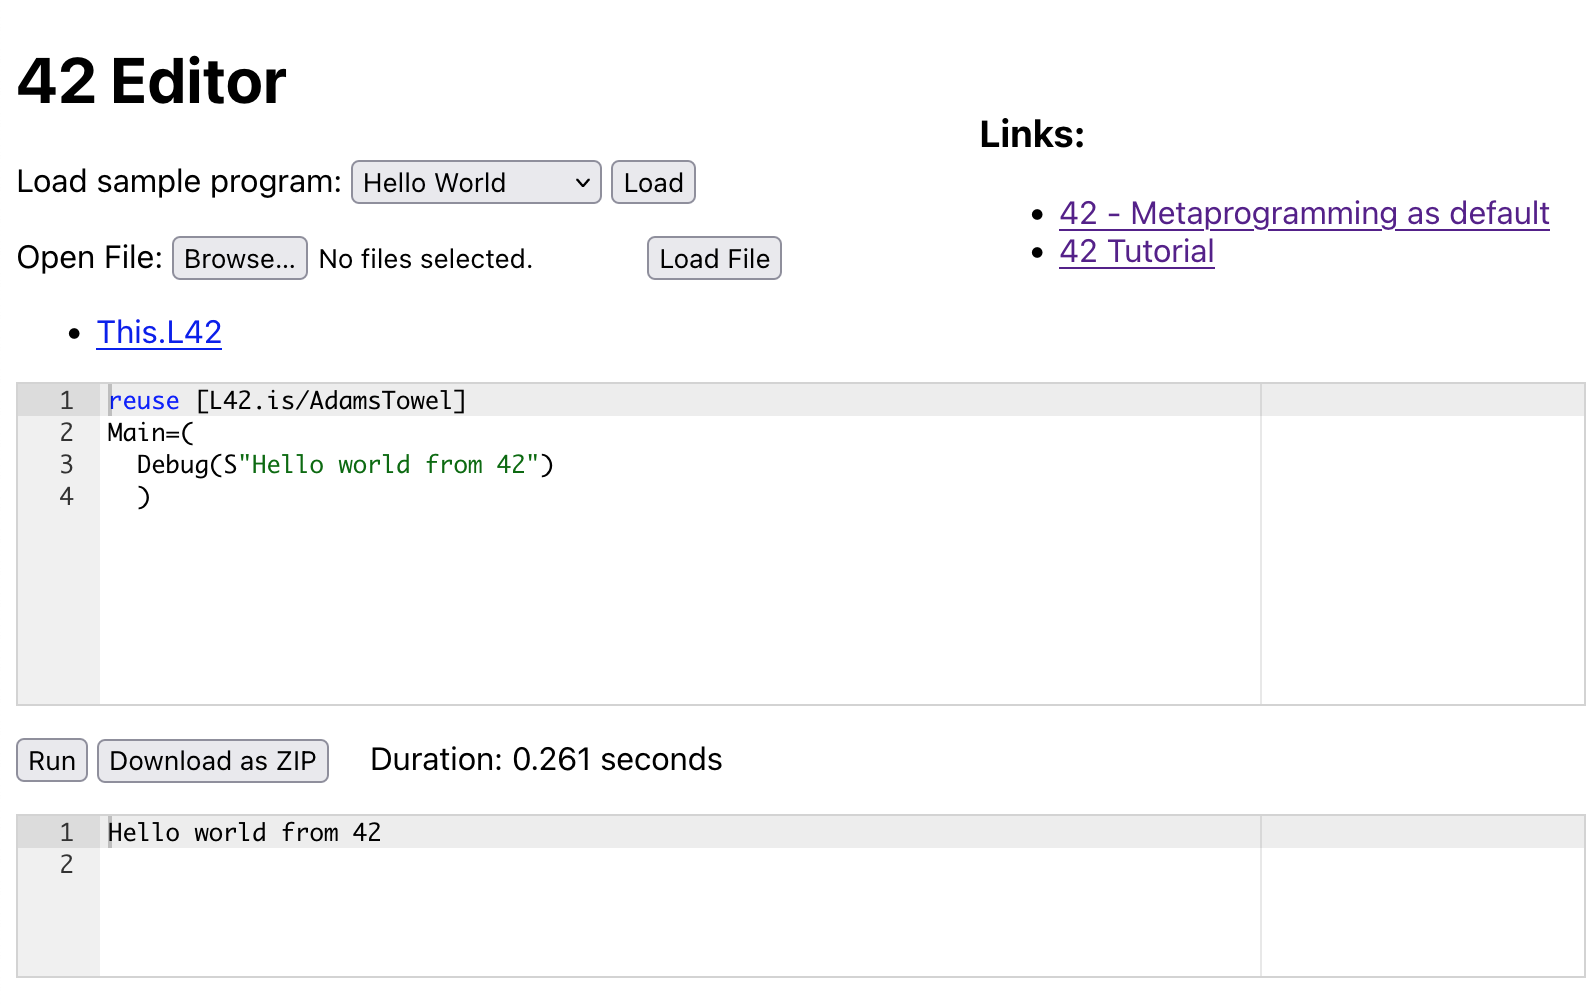
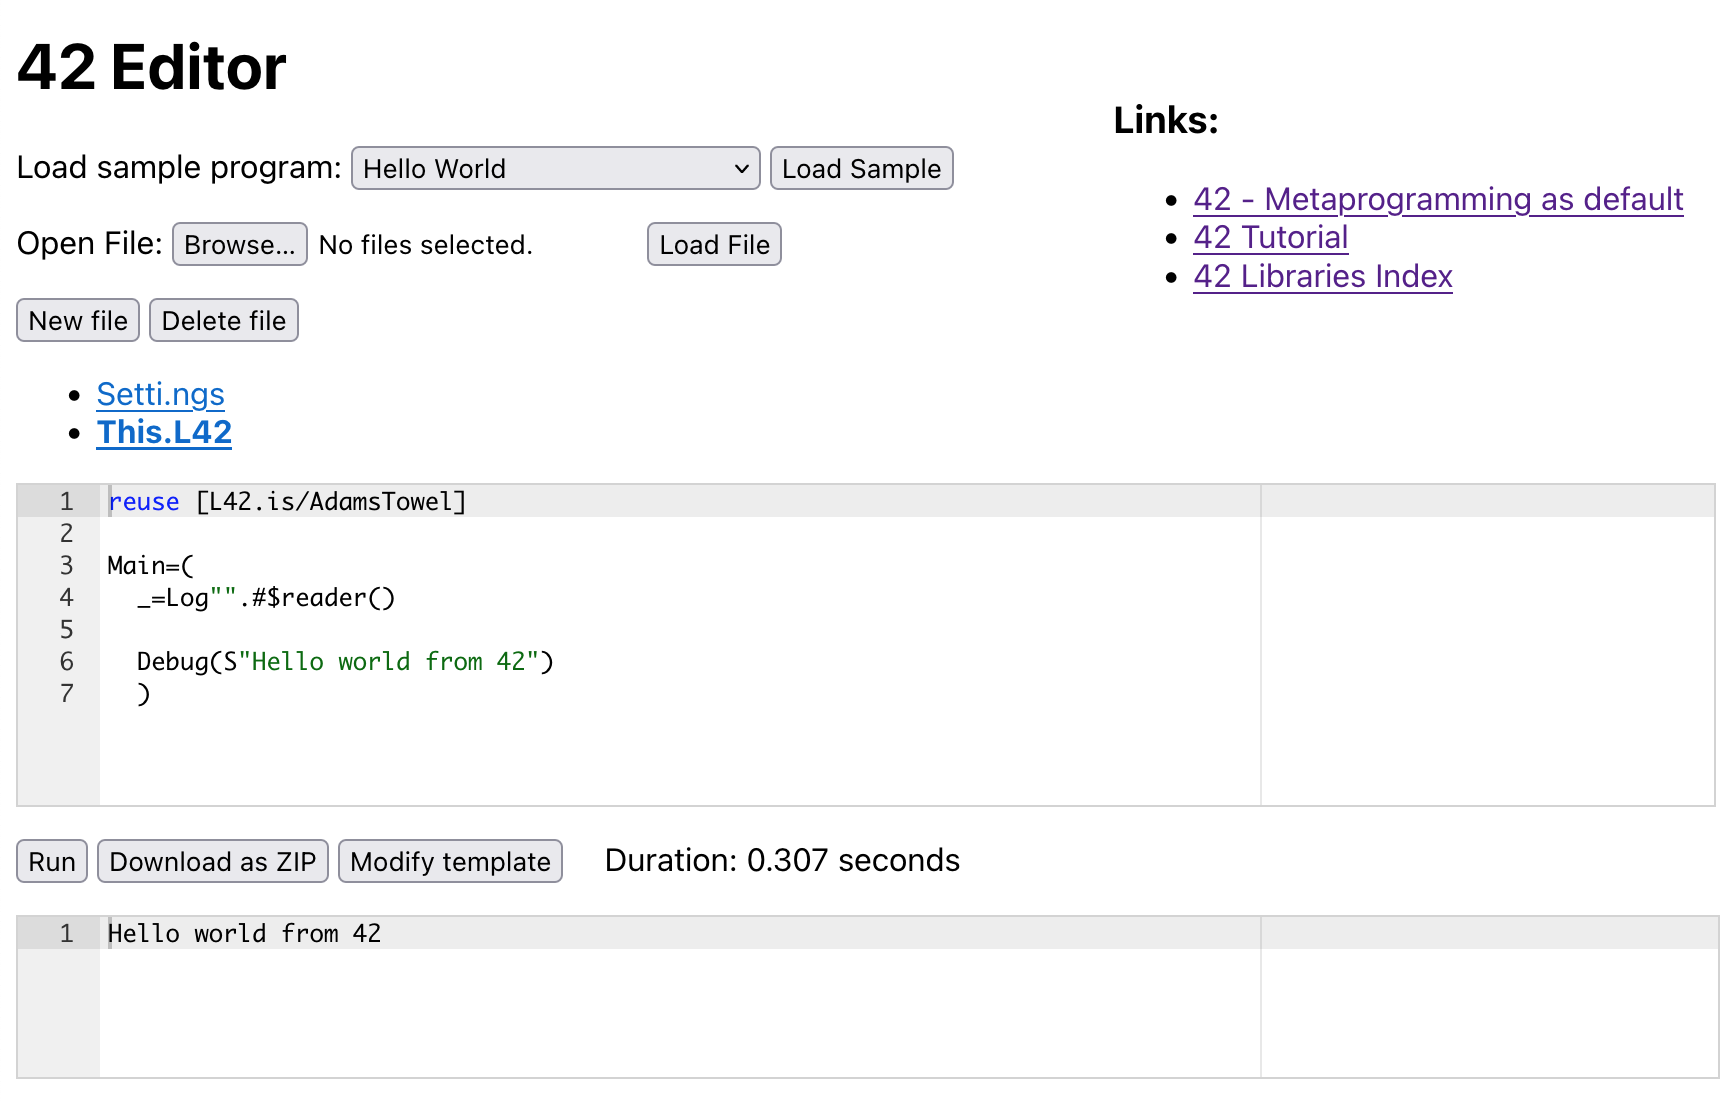
Update UI images

diff --git a/report/main.tex b/report/main.tex
@@ -274,6 +274,10 @@ When the 42 program contains errors, they are shown in red as below. In that exa
 
 The web page is built with HTML, CSS and JavaScript. It uses asynchronous AJAX requests to communicate with the server. The editing UI is built around the Ace editor, and has support for syntax highlighting and themes. I have tested it in all modern web browsers (i.e. Chrome, Firefox and Safari).
 
+\img{images/42-editor-template.png}{One of the challenges in the bug bounty programme}
+
+The above screenshot shows one of the challenges that users can attempt to solve as part of the bug bounty programme. The code on the left-hand side is modifiable, while the code on the right-hand side shows the complete program (note that the 'Code' section contains the copied user input). In this challenge, users need to try to modify the 'Square' instance, which would break the immutability guarantee of 42. At the bottom we can see the program output, which currently shows that an exception was thrown because the challenge has not been solved.
+
 \chapter{Design and Implementation}
 
 \img{images/architecture.png}{42 Server Architecture}
@@ -307,7 +311,8 @@ POST /execute
 
 {
     "files": {
-        "This.L42":"reuse [L42.is/AdamsTowel]\nMain=(\n  Debug(S\"Hello world from 42\")\n  )"
+        "This.L42":"reuse [L42.is/AdamsTowel]\nMain=(\n  _=Log"".#\$reader()\n  Debug(S\"Hello world from 42\")\n  )",
+        "Setti.ngs": "Main = [L42.is/AdamsTowel/Log]"
     }
 }
 \end{mylisting}
@@ -321,6 +326,7 @@ Access-Control-Allow-Origin: *
     "duration": "0.180",
     "stdout": "Hello world from 42\n",
     "returncode": 0,
+    "tests": "",
     "ok": true,
     "stderr": ""
 }
